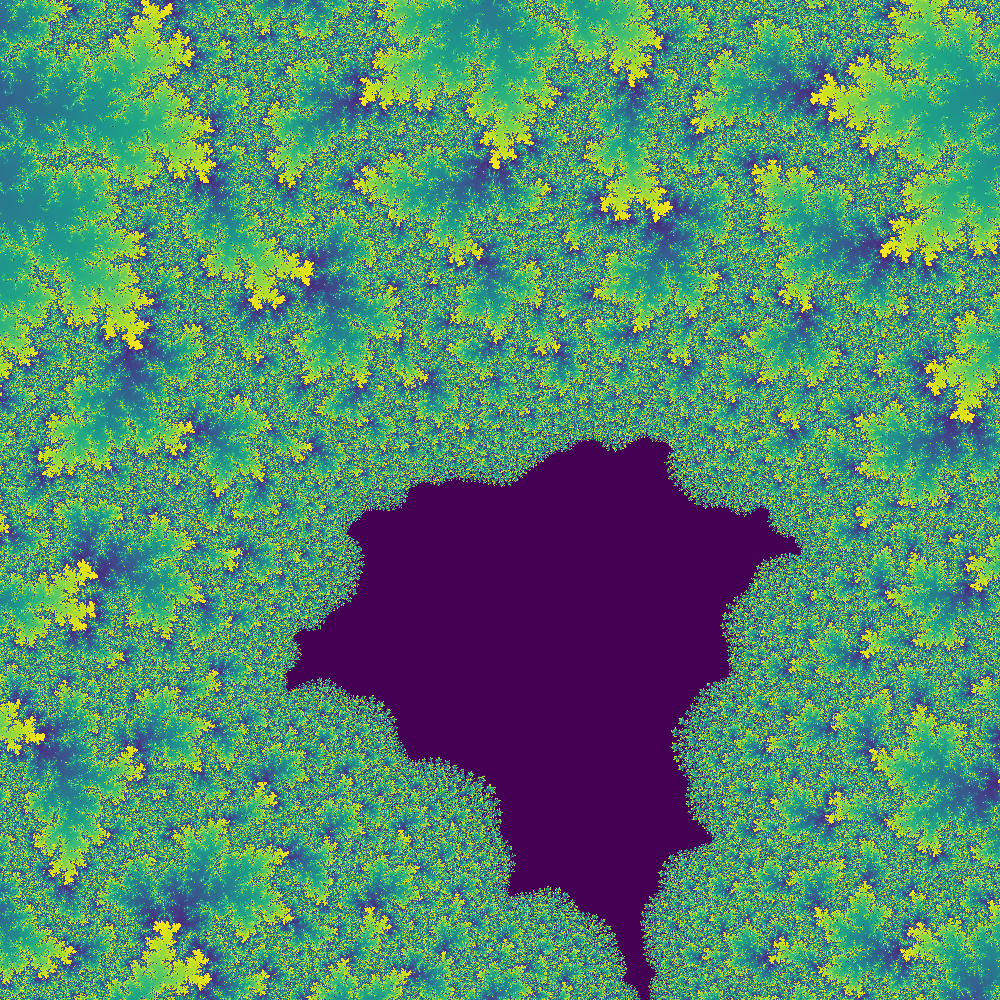
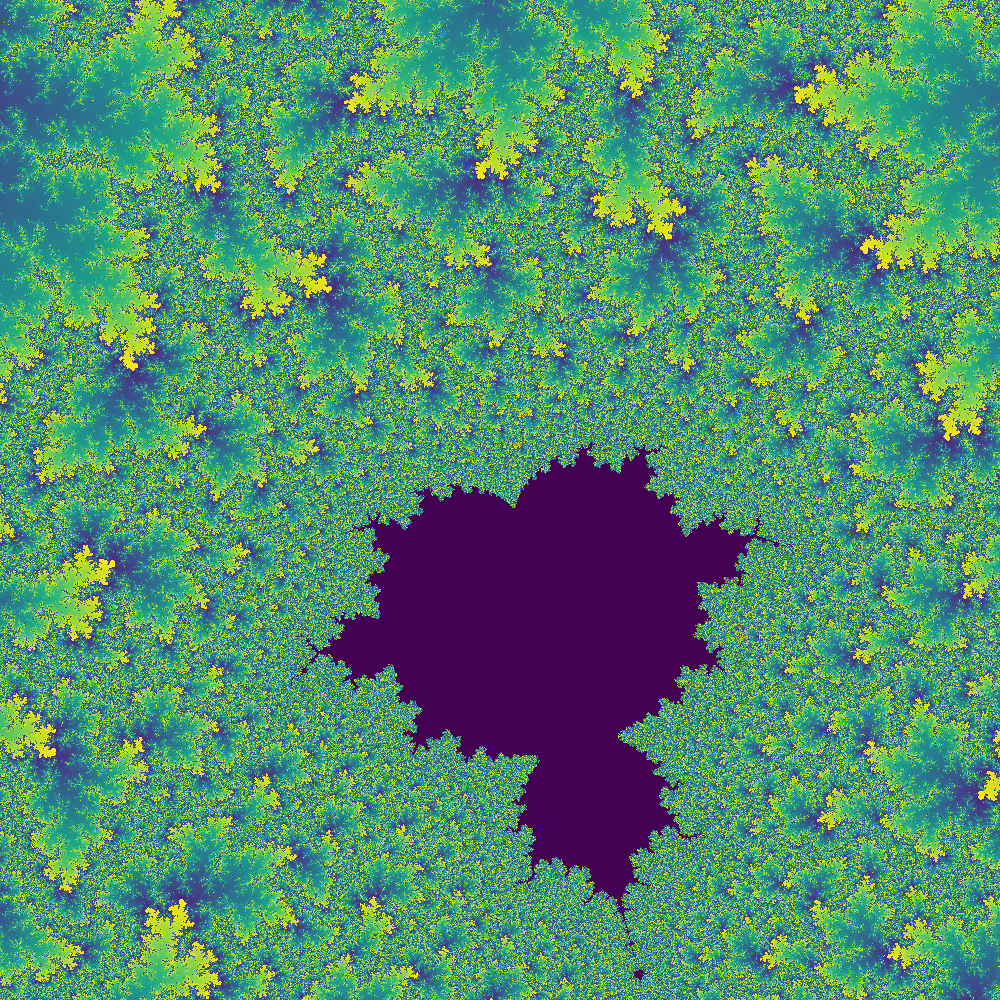
some coommit

diff --git a/zupa1/mandzoomv2.py b/zupa1/mandzoomv2.py
@@ -33,11 +33,11 @@ def main(r1, r2, x1, y2, file_n, depth):
         for a in A:
 
             #print(f"mandelbrot{file_n} {100*(b-B[0])/(B[-1]-B[0])}%")
-            tempL.append(zupa1.mand(a, -b))
+            tempL.append(zupa1.mand(a, -b, depth))
         X.append(tempL)
 
     plt.imsave(f"/home/kartonrealista/Code/zupa1/zooman2/zooman{file_n}.png", X)
 
 
-for i in range(50):
-    main(3/1.5**(i+1), 3/1.5**(i+1), -1.0, -0.28661692527754723, i, 300)
+for i in range(56, 70):
+    main(3/1.5**(i+1), 3/1.5**(i+1), -1.0, -0.28661692527754723, i, 16000)

diff --git a/zupa1/src/lib.rs b/zupa1/src/lib.rs
@@ -42,14 +42,14 @@ fn mandmis(a: f64, b: f64) -> PyResult<String>
 }
 
 #[pyfunction]
-fn mand(a: f64, b: f64) -> PyResult<i64> 
+fn mand(a: f64, b: f64, n:i64) -> PyResult<i64> 
 {
     let c_re = a;
     let c_im = b;
     let mut zp_re: f64 = 0.0;
     let mut zp_im: f64 = 0.0;
 
-    for i in 0..4000
+    for i in 0..n
     {   
         
         let zn_re = zp_re.powf(2.0) - zp_im.powf(2.0) + c_re;
